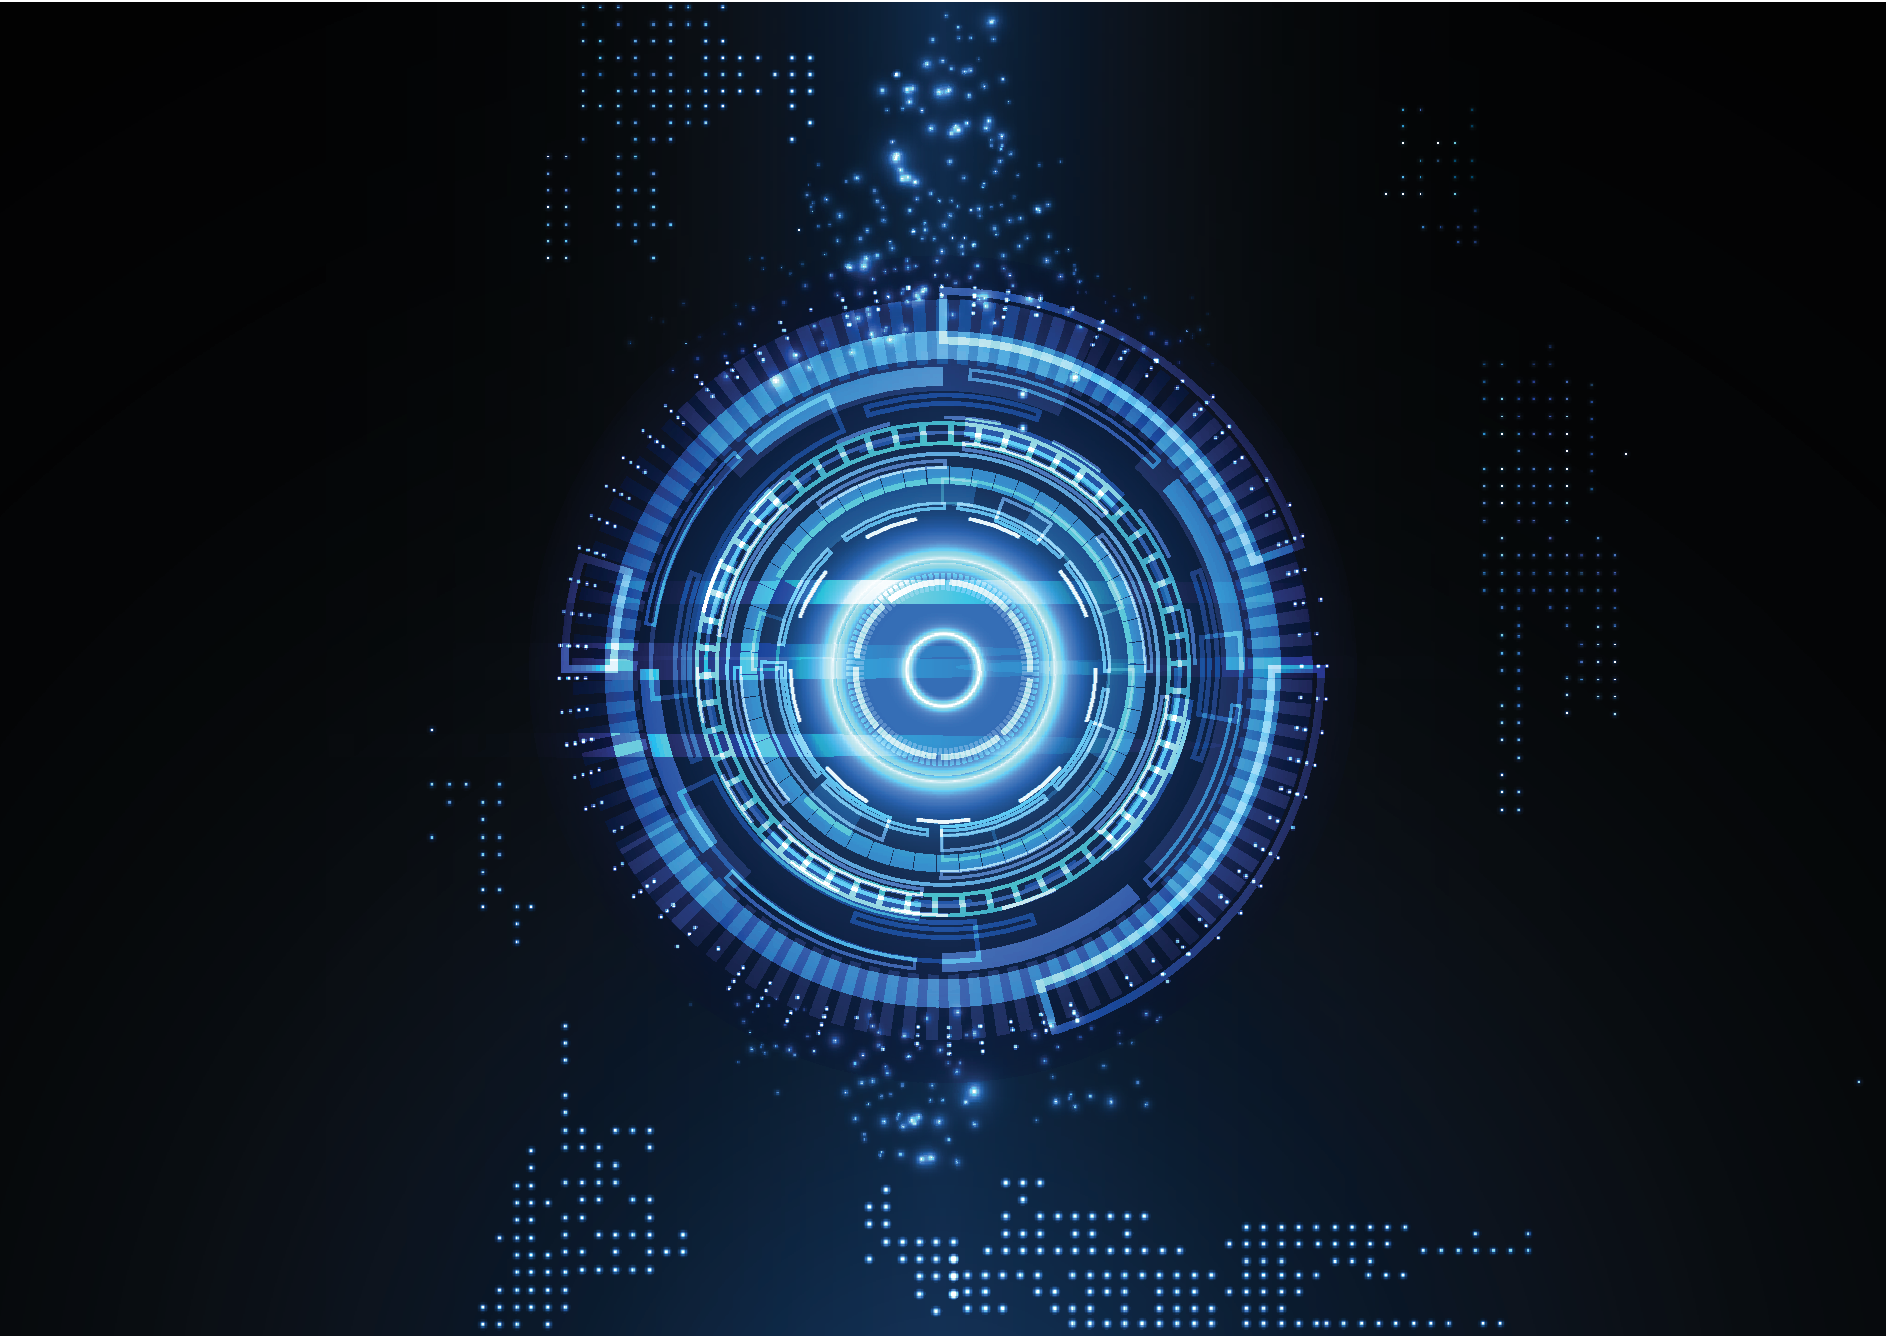
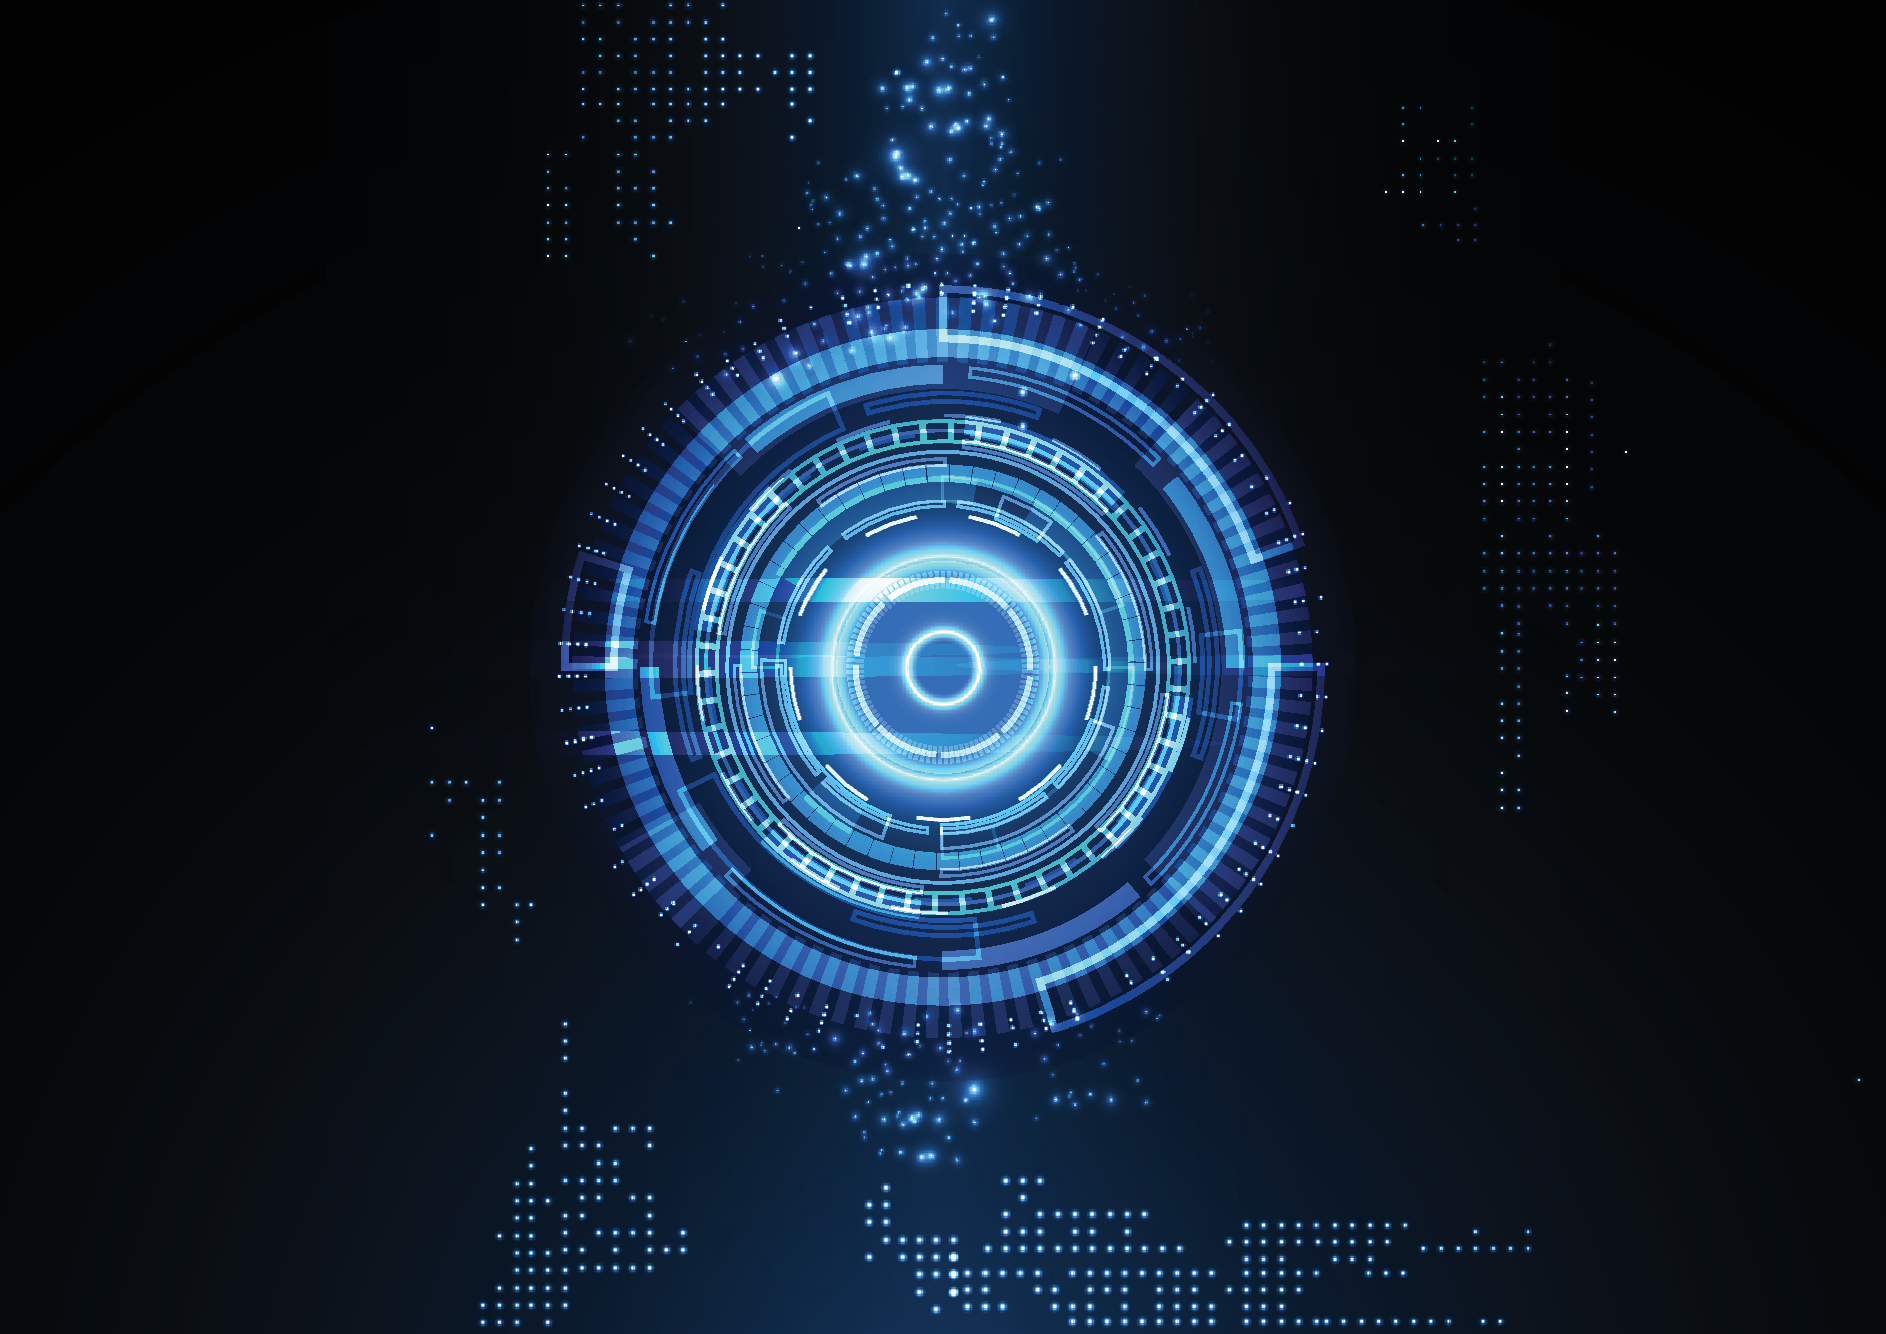
loading screen first steps

diff --git a/src/loader.css b/src/loader.css
@@ -1,5 +1,5 @@
 :root {
-    --size: 300px;
+    --size: 20vmin;
     --margin: calc(-1*var(--size)/2);
 }
 
@@ -10,11 +10,11 @@
 	left: 0;
 	width: 100%;
 	height: 100%;
-	background-color: #07001a;
-    /* background-color: #000000;
+	/* background-color: #07001a; */
+    background-color: #000000;
     background-image: url("../assets/hud/intro/big.png");
     background-position: center; 
-    background-size: contain; */
+    background-size: contain;
     /* background-size: 300px;  */
     background-repeat: no-repeat;
 	opacity: 1;
@@ -28,14 +28,14 @@
 #loader {
     display: block;
     position: absolute;
-    left: 50%;
-    top: 50%;
+    left: 49.7%;
+    top: 49.7%;
     width: var(--size);
     height: var(--size);
     margin: var(--margin) 0 0 var(--margin);
     border-radius: 50%;
     border: 3px solid transparent;
-    border-top-color: #195ebf;
+    border-top-color: #b7e3ed;
     -webkit-animation: spin 2.6s linear infinite;
     animation: spin 2.6s linear infinite;
 }
@@ -48,7 +48,7 @@
     bottom: 5px;
     border-radius: 50%;
     border: 3px solid transparent;
-    border-top-color: #750f50;
+    border-top-color: #005596;
     -webkit-animation: spin 4s linear infinite;
     animation: spin 4s linear infinite;
 }
@@ -61,7 +61,7 @@
     bottom: 15px;
     border-radius: 50%;
     border: 3px solid transparent;
-    border-top-color: #8F4a29;
+    border-top-color: #0e84df;
     -webkit-animation: spin 2s linear infinite;
     animation: spin 2s linear infinite;
 }
@@ -94,13 +94,14 @@
     height: 100%;
     width: 100%;
     display: grid;
-    place-items: center;
+    /* place-items: center; */
+    /* grid-template-columns: repeat(auto-fit,minmax(240px,1fr)) */
 }
 
 #loader-text > *{
     /* display: grid; */
-    grid-column: 1;
-    grid-row: 1;
+    grid-column: 6;
+    grid-row: 4;
     /* grid-template-columns: repeat(auto-fit,minmax(240px,1fr)) */
 }
 

diff --git a/src/style.css b/src/style.css
@@ -3,7 +3,7 @@
 /* @font-face { font-family: "Orbitron-Black"; src: url("../fonts/Orbitron/static/Orbitron-Black.ttf"); } */
 @font-face { font-family: "Ailerons"; src: url("../fonts/Ailerons/Ailerons-Regular.otf"); }
 /* @font-face { font-family: "Exan"; src: url("../fonts/Exan/Exan-Regular.ttf"); } */
-@font-face { font-family: "Hyperion"; src: url("../fonts/Hyperion/Hyperion\ Regular.otf"); }
+@font-face { font-family: "Hyperion"; src: url("../fonts/Hyperion/Hyperion\ Regular.woff"); }
 /* @font-face { font-family: "Primal"; src: url("../fonts/Primal/Primal\ Webfont.woff"); } */
 /* @font-face { font-family: "Sarpanch"; src: url("../fonts/Sarpanch/Sarpanch-Regular.ttf"); } */
 

diff --git a/index.html b/index.html
@@ -13,9 +13,9 @@
 
   <div id="loading-screen">
     <div id="loader-text" class="fade-animate">
-      <p id="f1" class="center-text">CALCULATING<br>TRAJECTORY...</p>
-      <p id="f2" class="center-text">ACHIEVING<br>ORBIT...</p>
-      <p id="f3" class="center-text">SCANNING<br>PERIMETER...</p>
+      <p id="f1" class="center-text">CALCULATING TRAJECTORY...</p>
+      <p id="f2" class="center-text">ACHIEVING ORBIT...</p>
+      <p id="f3" class="center-text">SCANNING PERIMETER...</p>
     </div>
     <div id="loader"></div>
   </div>
